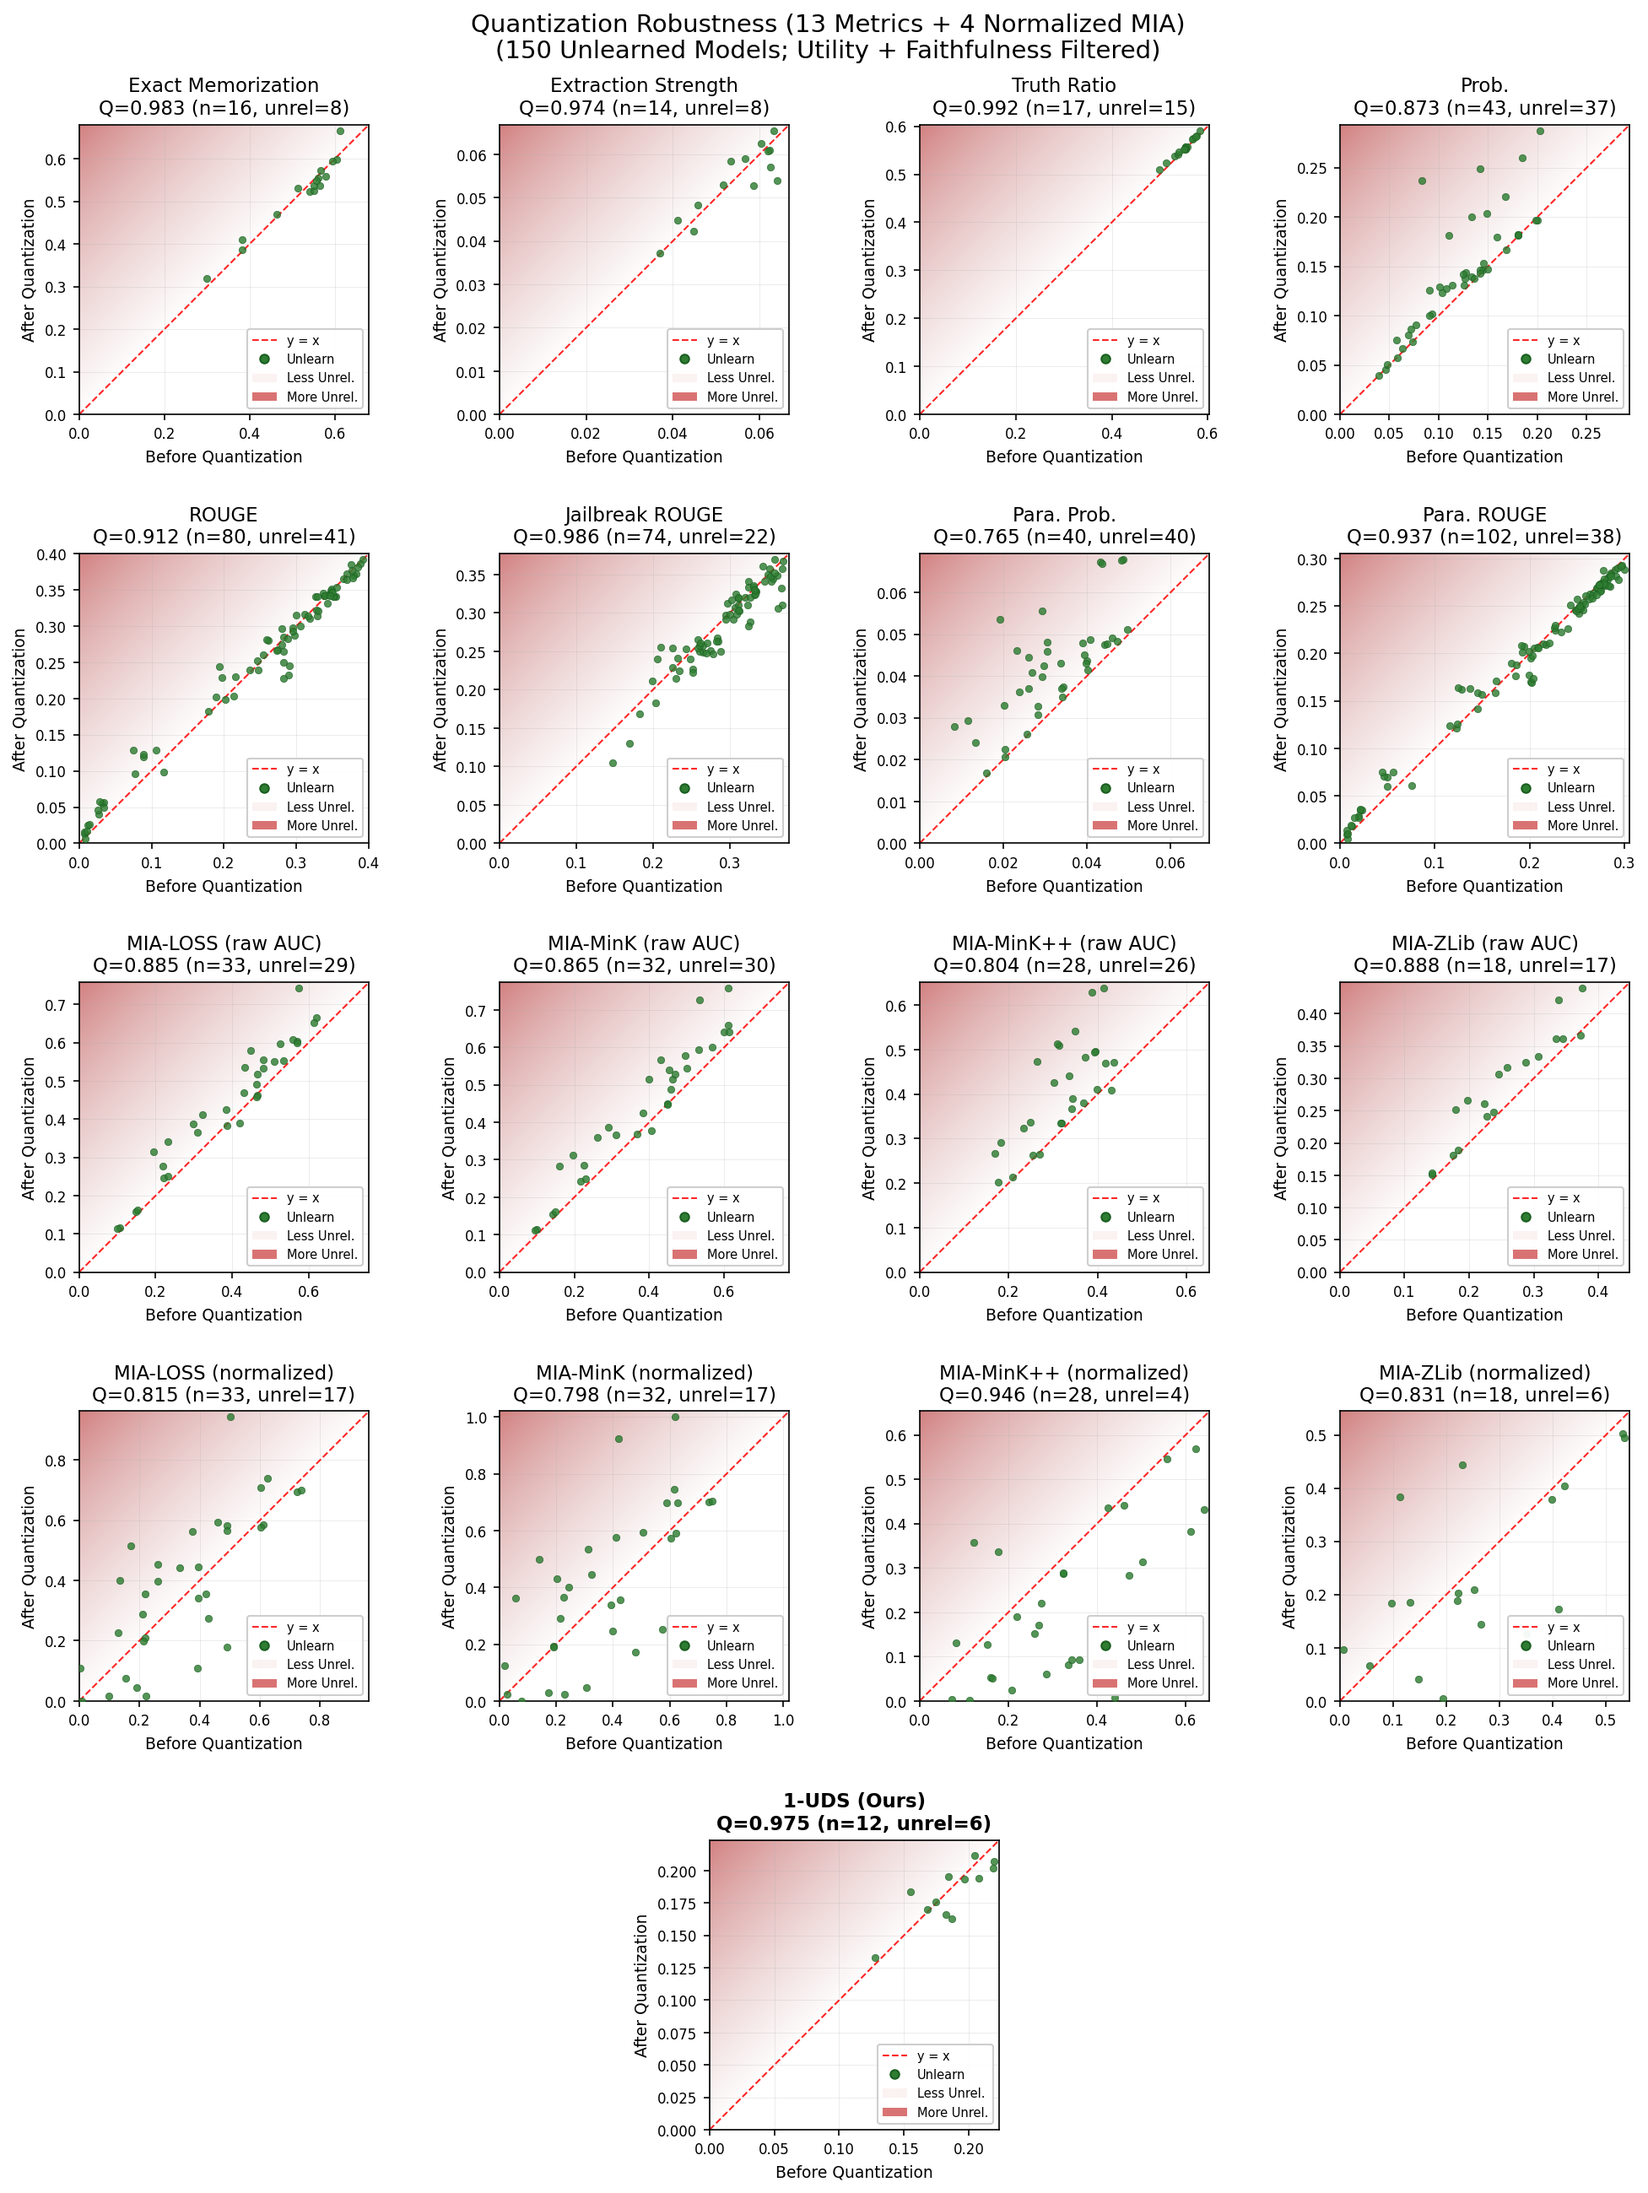
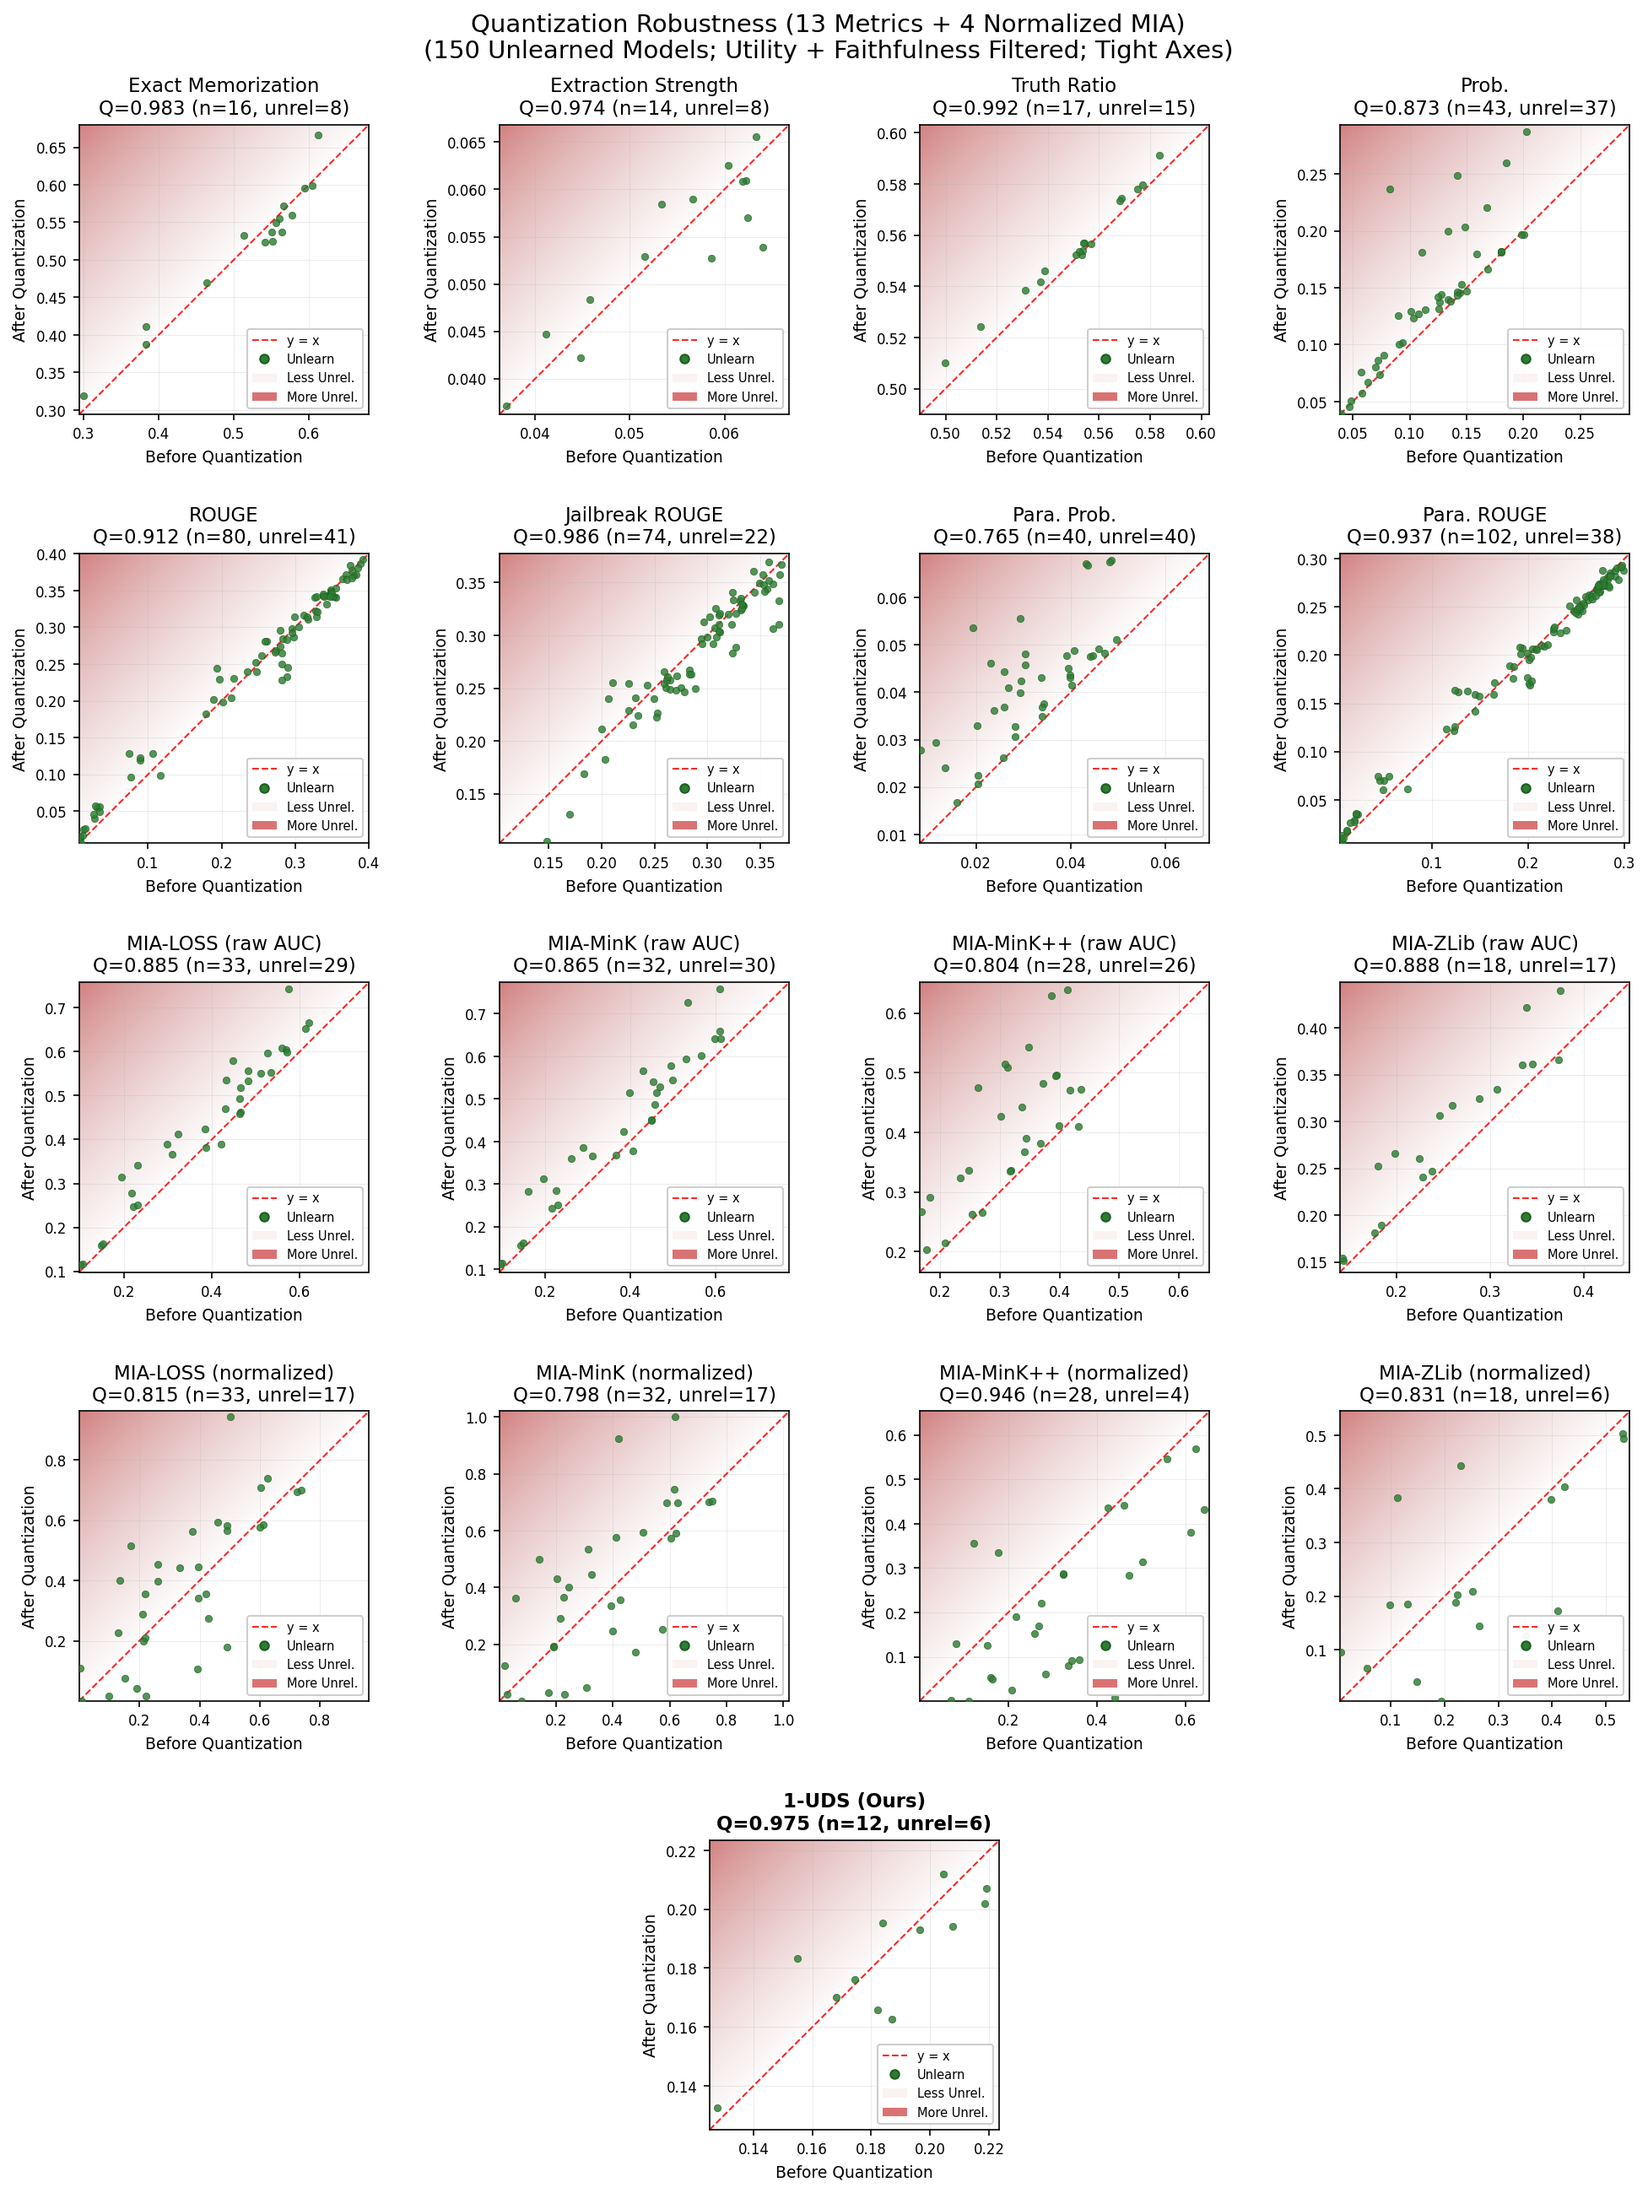
Use tight axes (data-min lower bound) for robustness scatter plots

diff --git a/runs/meta_eval/robustness/relearn/plots/plot_relearn_robustness.py b/runs/meta_eval/robustness/relearn/plots/plot_relearn_robustness.py
@@ -141,6 +141,11 @@ def parse_args():
         default="",
         help="Optional output filename tag suffix (e.g., utility_only).",
     )
+    parser.add_argument(
+        "--tight_axes",
+        action="store_true",
+        help="Set axis lower bound to data min instead of 0.",
+    )
     return parser.parse_args()
 
 
@@ -265,6 +270,8 @@ def main():
     filter_label = 'No Filtering' if args.no_filter else 'Utility + Faithfulness Filtered'
     if args.filter_label:
         filter_label = args.filter_label
+    if args.tight_axes:
+        filter_label += '; Tight Axes'
     if args.out_tag:
         tag = args.out_tag if args.out_tag.startswith("_") else f"_{args.out_tag}"
         results_name = results_name.replace(".json", f"{tag}.json")
@@ -312,7 +319,10 @@ def main():
             ax.set_visible(False)
             continue
 
-        lo = 0.0
+        if args.tight_axes:
+            lo = max(min(all_vals) * 0.98, 0.0)
+        else:
+            lo = 0.0
         hi = max(max(all_vals) * 1.02, 1e-6)
 
         # Unreliable region gradient: y > x + retain_shift

diff --git a/runs/meta_eval/robustness/quant/plots/plot_quant_robustness.py b/runs/meta_eval/robustness/quant/plots/plot_quant_robustness.py
@@ -119,6 +119,11 @@ def parse_args():
         default="",
         help="Optional output filename tag suffix (e.g., utility_only).",
     )
+    parser.add_argument(
+        "--tight_axes",
+        action="store_true",
+        help="Set axis lower bound to data min instead of 0.",
+    )
     return parser.parse_args()
 
 
@@ -233,6 +238,8 @@ def main():
     filter_label = 'No Filtering' if args.no_filter else 'Utility + Faithfulness Filtered'
     if args.filter_label:
         filter_label = args.filter_label
+    if args.tight_axes:
+        filter_label += '; Tight Axes'
     if args.out_tag:
         tag = args.out_tag if args.out_tag.startswith("_") else f"_{args.out_tag}"
         results_name = results_name.replace(".json", f"{tag}.json")
@@ -276,7 +283,10 @@ def main():
             ax.set_visible(False)
             continue
 
-        lo = 0.0
+        if args.tight_axes:
+            lo = max(min(all_vals) * 0.98, 0.0)
+        else:
+            lo = 0.0
         hi = max(max(all_vals) * 1.02, 1e-6)
 
         # Unreliable region gradient (above y=x)
